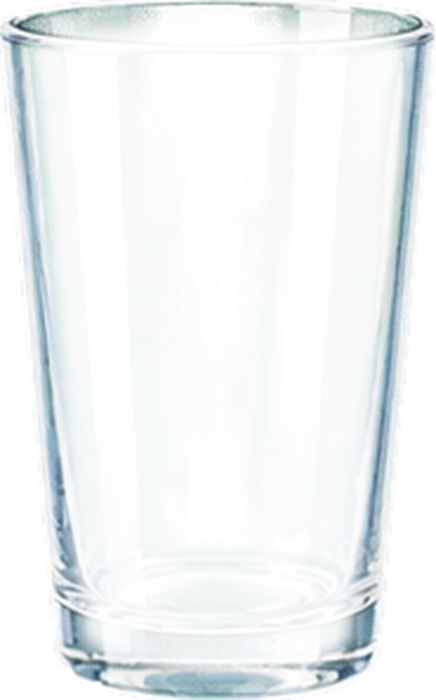
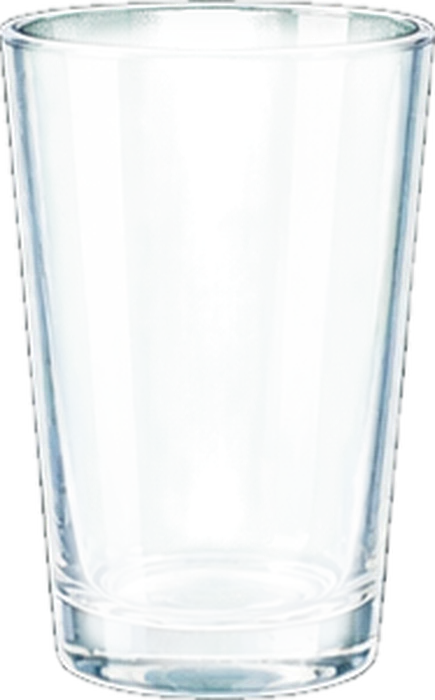
fix: clean sprite edges (alpha matte), add step guide to solubility bottle

Changed region(s): [[0.0, 0.0, 1.0, 1.0]]

diff --git a/components/minigames/SolubilityBottle.tsx b/components/minigames/SolubilityBottle.tsx
@@ -225,6 +225,23 @@ export function SolubilityBottle({ targets, config, onDone }: InvestigateProps) 
             })}
           </div>
 
+          {/* 진행 안내 */}
+          <div className="absolute left-1/2 -translate-x-1/2 top-4 rounded-2xl px-6 py-2 text-center shadow-xl" style={{ width: 600, background: 'rgba(14,28,42,.94)', border: '2px solid #fde047' }}>
+            <div className="flex items-center justify-center gap-2 text-[15px] font-bold">
+              {['실온 20 ℃ 최대량', '60 ℃ 최대량'].map((t, i) => {
+                const on = i === 0 ? rec.r20 === undefined : rec.r20 !== undefined && rec.r60 === undefined;
+                const done = i === 0 ? rec.r20 !== undefined : rec.r60 !== undefined;
+                return <span key={t} className={`rounded-full px-3 py-0.5 ${done ? 'bg-emerald-600' : on ? 'bg-amber-400 text-black' : 'bg-white/15 text-white/60'}`}>{i + 1}단계 · {t}</span>;
+              })}
+            </div>
+            <div className="mt-1 text-[21px] font-bold text-amber-100">
+              {subDone ? '기록 완료! 다음으로 넘어가요'
+                : rec.r20 === undefined ? '약숟가락으로 가루를 병에 넣고, 아래 판을 문질러 저어요. 안 녹고 남을 때까지 넣어요'
+                : !dipped ? '병을 끌어서 60 ℃ 물 비커에 담가요'
+                : '가루를 더 넣고 저어서, 60 ℃에서 녹는 최대량을 찾아요'}
+            </div>
+          </div>
+
           {/* 가루 통 + 약숟가락 */}
           <div className="absolute" style={{ left: 100, top: 470, width: 130, height: 120 }}>
             <svg width="130" height="120" viewBox="0 0 130 120" style={{ position: 'absolute', inset: 0 }}>

diff --git a/scripts/cutout_sheet.py b/scripts/cutout_sheet.py
@@ -23,13 +23,24 @@ while q:
     x, y = q.popleft()
     for nx, ny in ((x + 1, y), (x - 1, y), (x, y + 1), (x, y - 1)):
         if 0 <= nx < W and 0 <= ny < H and not seen[ny * W + nx] and cand(nx, ny): seen[ny * W + nx] = 1; q.append((nx, ny))
+alpha0 = im.getchannel('A')
+use_alpha = sum(1 for v in alpha0.resize((64, 64)).getdata() if v == 0) > 300  # 배경이 투명한 시트
 mask = Image.new('L', (W, H), 0); m = mask.load()
 for y in range(H):
     for x in range(W):
         r, g, b, a = p[x, y]
         if not seen[y * W + x] and not chroma(r, g, b): m[x, y] = 255
 E = int(os.environ.get('ERODE', '5'))  # 유리처럼 얇은 물체는 ERODE=3
-mask = mask.filter(ImageFilter.MedianFilter(3 if E < 5 else 5)).filter(ImageFilter.MinFilter(E)).filter(ImageFilter.GaussianBlur(0.8))
+if use_alpha:
+    # 번짐(반투명 테두리)을 버리고 알파가 거의 꽉 찬 곳만 쓴 뒤, 블러+문턱으로 둥글게 깎아 매끈한 경계를 만든다
+    mask = alpha0.point(lambda v: 255 if v >= 225 else 0).filter(ImageFilter.GaussianBlur(E * 0.4)).point(lambda v: 255 if v >= 170 else 0).filter(ImageFilter.GaussianBlur(0.9))
+else:
+    mask = mask.filter(ImageFilter.MedianFilter(3 if E < 5 else 5)).filter(ImageFilter.MinFilter(E)).filter(ImageFilter.GaussianBlur(0.8))
+# 초록 배경 번짐 제거(물체에 초록 계열이 없다는 전제)
+for y in range(H):
+    for x in range(W):
+        r, g, b, a = p[x, y]
+        if g > max(r, b) + 6: p[x, y] = (r, max(r, b) + 2, b, a)
 im.putalpha(mask)
 cw, ch = W // cols, H // rows
 for i, n in enumerate(names):

diff --git a/scripts/cutout_glass.py b/scripts/cutout_glass.py
@@ -7,7 +7,7 @@ from PIL import Image, ImageFilter
 src, cols, rows, out, px = sys.argv[1], int(sys.argv[2]), int(sys.argv[3]), sys.argv[4], int(sys.argv[5])
 names = sys.argv[6:]
 im = Image.open(src).convert('RGBA'); W, H = im.size; p = im.load()
-obj = im.getchannel('A').point(lambda v: 255 if v >= 240 else 0).filter(ImageFilter.MinFilter(3)).filter(ImageFilter.GaussianBlur(0.7))
+obj = im.getchannel('A').point(lambda v: 255 if v >= 200 else 0).filter(ImageFilter.GaussianBlur(1.0)).point(lambda v: 255 if v >= 150 else 0).filter(ImageFilter.GaussianBlur(0.7))
 core = obj.filter(ImageFilter.MinFilter(21)).filter(ImageFilter.GaussianBlur(3))  # 유리 안쪽(벽에서 떨어진 곳)
 c_ = core.load()
 o = obj.load()
